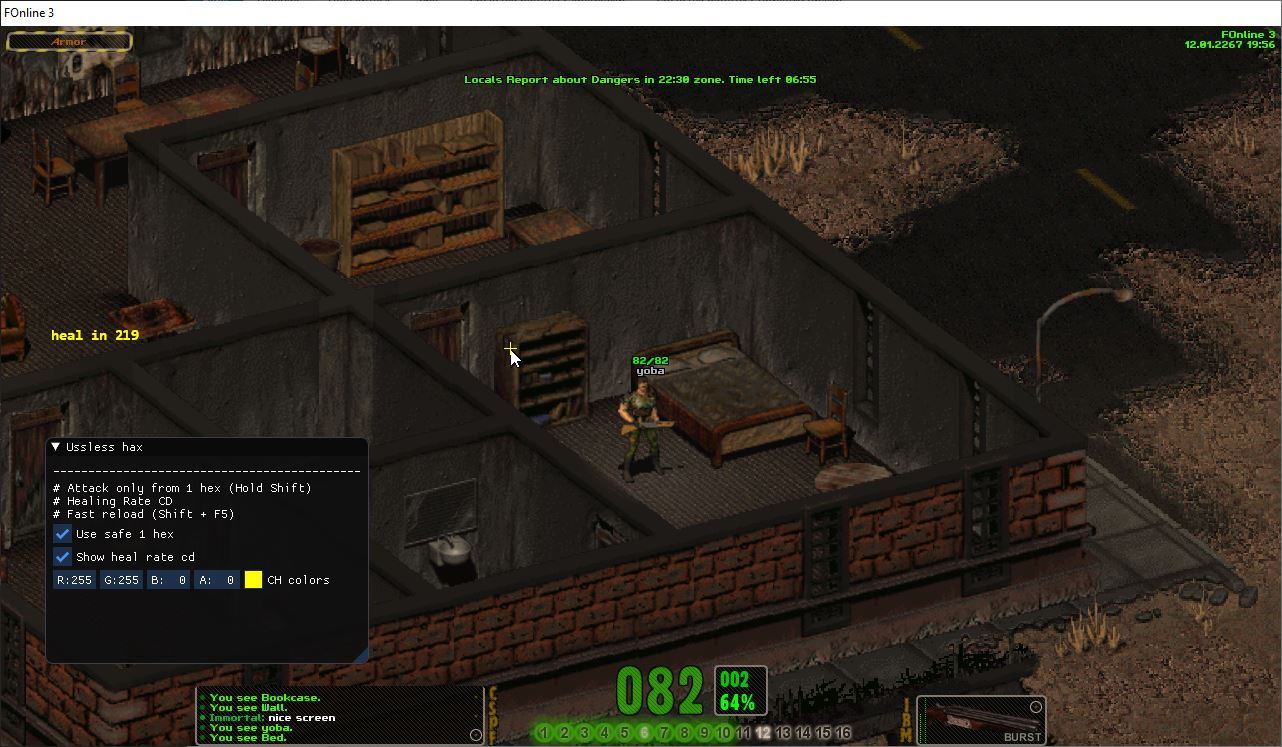
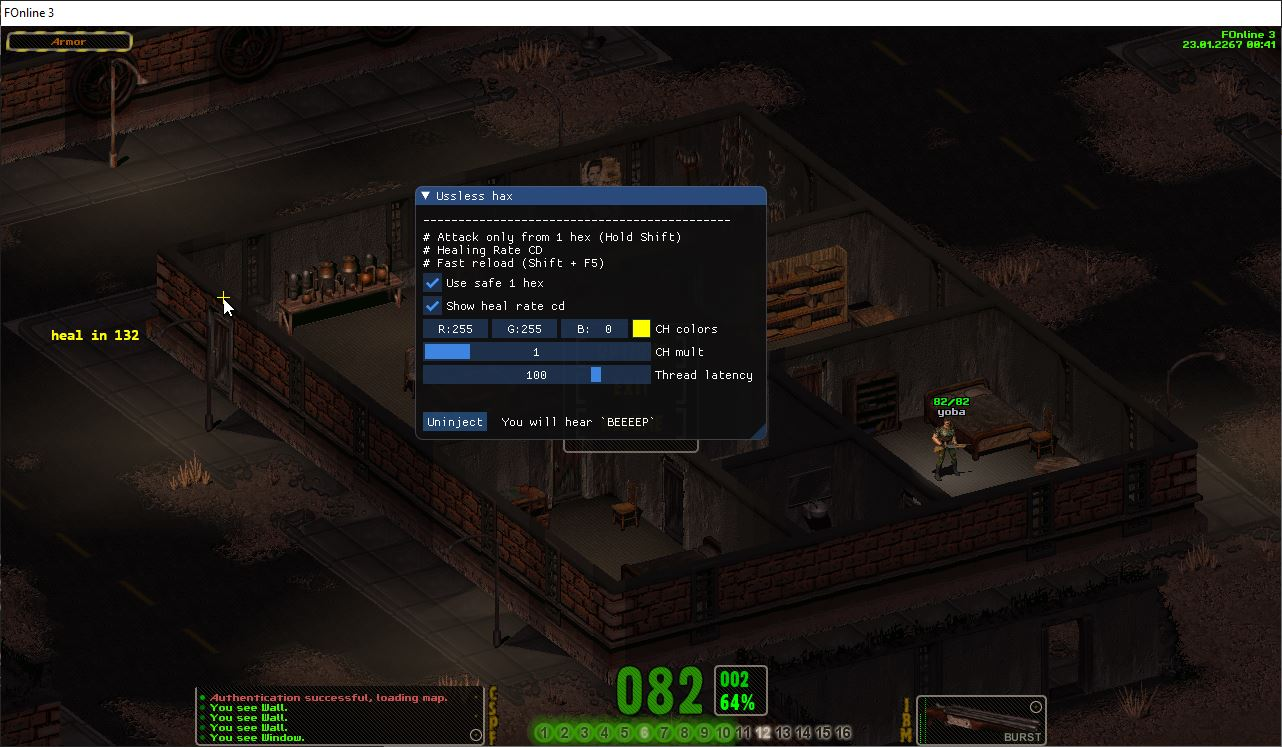
few gui changes

diff --git a/FO3Dll/D3D.cpp b/FO3Dll/D3D.cpp
@@ -53,7 +53,7 @@ void ImGuiLoop(LPDIRECT3DDEVICE9 g_pd3dDevice)
 		ImGui::SetMouseCursor(ImGuiMouseCursor_Arrow);
 		ImGui_ImplWin32_Init(window);
 		ImGui_ImplDX9_Init(g_pd3dDevice);
-		ImGui::SetNextWindowSize(ImVec2(200, 200));
+		ImGui::SetNextWindowSize(ImVec2(210, 320));
 	}
 
 
@@ -65,16 +65,20 @@ void ImGuiLoop(LPDIRECT3DDEVICE9 g_pd3dDevice)
 	ImGui::Text("# Attack only from 1 hex (Hold Shift)\n# Healing Rate CD\n# Fast reload (Shift + F5)");
 	ImGui::Checkbox("Use safe 1 hex", &_haxSettings->UseSafe1Hex);
 	ImGui::Checkbox("Show heal rate cd", &_haxSettings->ShowHealRateCD);
-	ImGui::ColorEdit4("CH colors", _haxSettings->Colors);
-
-
+	ImGui::ColorEdit3("CH colors", _haxSettings->Colors);
+	ImGui::SliderInt("CH mult", &_haxSettings->CrossHairMul, 1, 5);
+	ImGui::SliderInt("Thread latency", &_haxSettings->ThreadLatency, 30, 120);
+	ImGui::Dummy(ImVec2(0.0f, 20.0f));
+	if (ImGui::Button("Uninject"))
+		_haxSettings->Uninject = true;
+	ImGui::SameLine();
+	ImGui::Text(" You will hear `BEEEEP`");
 	ImGui::EndFrame();
 	ImGui::Render();
-
 	ImGui_ImplDX9_RenderDrawData(ImGui::GetDrawData());
 }
 
-#define FLOATS_TO_COLOR(colors) D3DCOLOR_ARGB(int(colors[3]*255), int(colors[0] * 255), int(colors[1] * 255), int(colors[2] * 255))
+#define FLOATS_TO_COLOR(colors) D3DCOLOR_ARGB(255, int(colors[0] * 255), int(colors[1] * 255), int(colors[2] * 255))
 
 HRESULT __stdcall hkEndScene(LPDIRECT3DDEVICE9 pDev)
 {
@@ -92,8 +96,8 @@ HRESULT __stdcall hkEndScene(LPDIRECT3DDEVICE9 pDev)
 
 		if (_haxSettings->UseSafe1Hex)
 		{
-			D3DRECT rec1 = { *xPos, *yPos-7, *xPos + 1,  *yPos +6 };
-			D3DRECT rec2 = { *xPos-6, *yPos-1, *xPos+7, *yPos };
+			D3DRECT rec1 = { *xPos, *yPos-7*_haxSettings->CrossHairMul, *xPos + 1 * _haxSettings->CrossHairMul,  *yPos +6 * _haxSettings->CrossHairMul };
+			D3DRECT rec2 = { *xPos-6 * _haxSettings->CrossHairMul, *yPos-1 * _haxSettings->CrossHairMul, *xPos+7 * _haxSettings->CrossHairMul, *yPos };
 			DWORD color = FLOATS_TO_COLOR(_haxSettings->Colors);
 			pDev->Clear(1, &rec1, D3DCLEAR_TARGET, color, 0, 0);
 			pDev->Clear(1, &rec2, D3DCLEAR_TARGET, color, 0, 0);

diff --git a/FO3Dll/dllmain.cpp b/FO3Dll/dllmain.cpp
@@ -48,7 +48,7 @@ DWORD CALLBACK MainThread(LPVOID args)
 		vk_end = GetAsyncKeyState(VK_END) != 0;
 		//pathFinder->NeedMove = (GetKeyState(VK_CAPITAL) & 1) == 0;
 
-		if (shift && vk_f1) {
+		if (GetAsyncKeyState(VK_INSERT)) {
 			haxSettings.IsMenuOpen = !haxSettings.IsMenuOpen;
 		}
 
@@ -56,7 +56,7 @@ DWORD CALLBACK MainThread(LPVOID args)
 			RefreshMe(foclient);
 		}		
 
-		if (shift && vk_end)
+		if (haxSettings.Uninject)
 		{
 			Beep(200, 200);
 			terminateOneHexThread = true;
@@ -79,7 +79,7 @@ DWORD CALLBACK MainThread(LPVOID args)
 			: ""
 		);
 
-		Sleep(100);
+		Sleep(haxSettings.ThreadLatency);
 	}
 	ExitThread(0);
 }

diff --git a/FO3Dll/framework.h b/FO3Dll/framework.h
@@ -103,10 +103,13 @@
 
 struct HaxSettings{
 	bool UseSafe1Hex = true;
-	float Colors[4] = {1.0f, 1.0f, 0.0f, 0.0f};
+	float Colors[3] = {1.0f, 1.0f, 0.0f};
 	bool IsMenuOpen = false;
 	bool IsImGuiInit = false;
 	bool ShowHealRateCD = true;
+	int ThreadLatency = 100;
+	int CrossHairMul = 1;
+	bool Uninject = false;
 };
 
 /*
